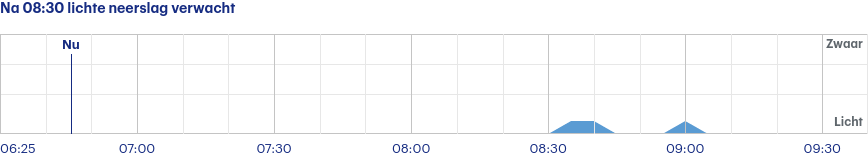
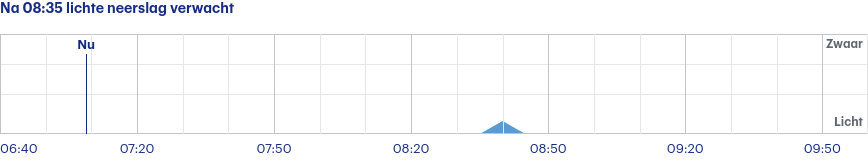
Latest scraping buienradar: Sat Jul  1 05:00:25 UTC 2023

diff --git a/scrapes/buienradar/buienradar-jette-3-uur.md b/scrapes/buienradar/buienradar-jette-3-uur.md
@@ -1,4 +1,4 @@
-Na 08:30 lichte neerslag verwacht
+Na 08:35 lichte neerslag verwacht
 
 ![](buienradar-jette-3-uur.png)
 
